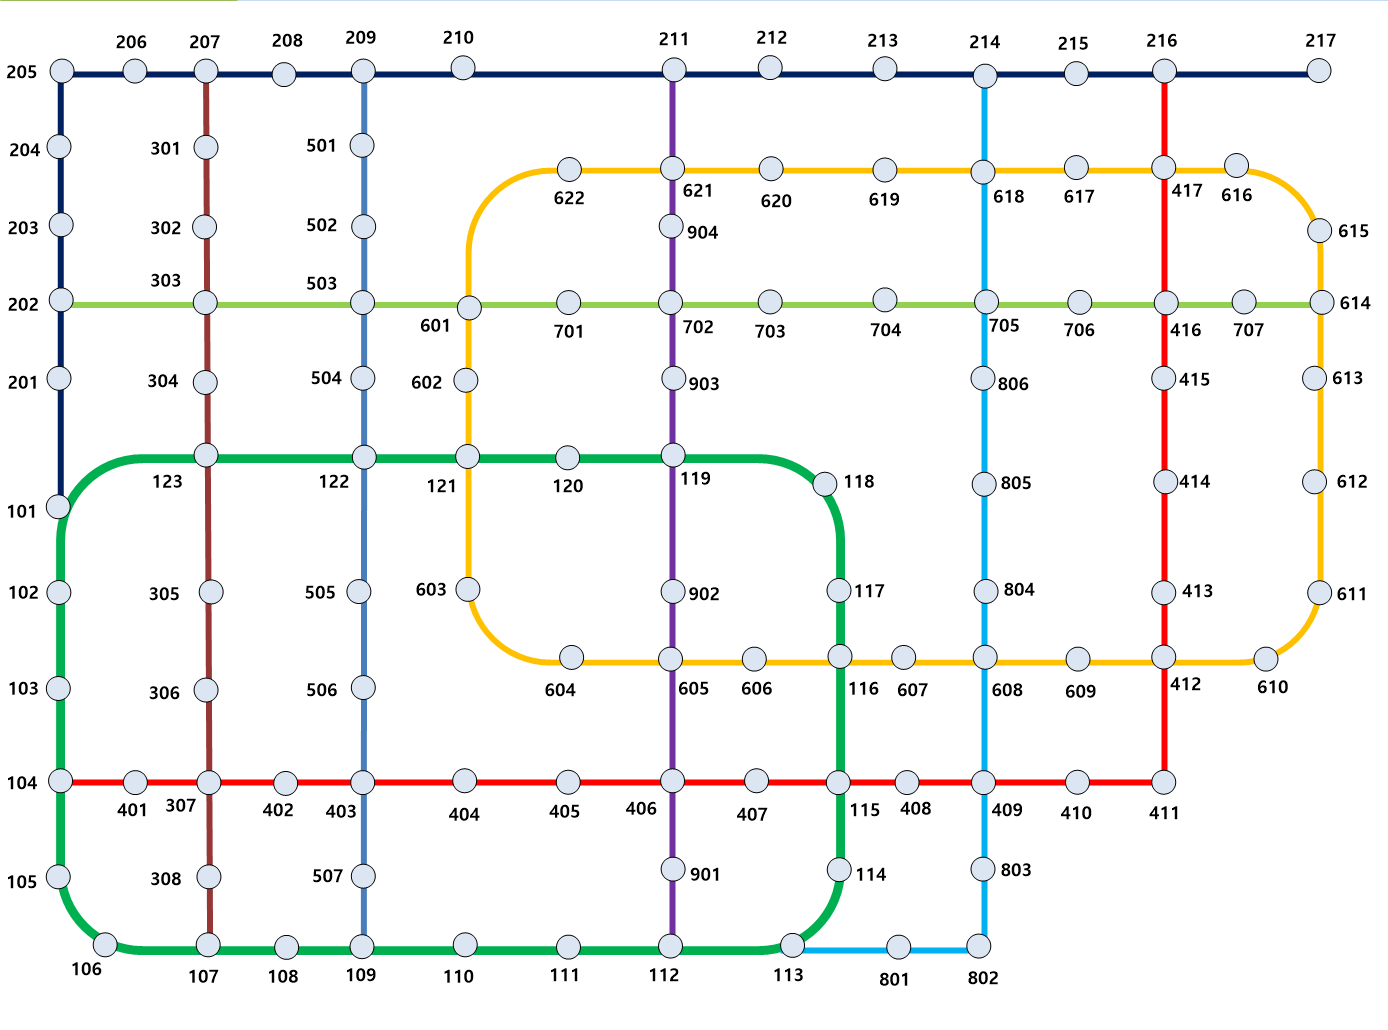
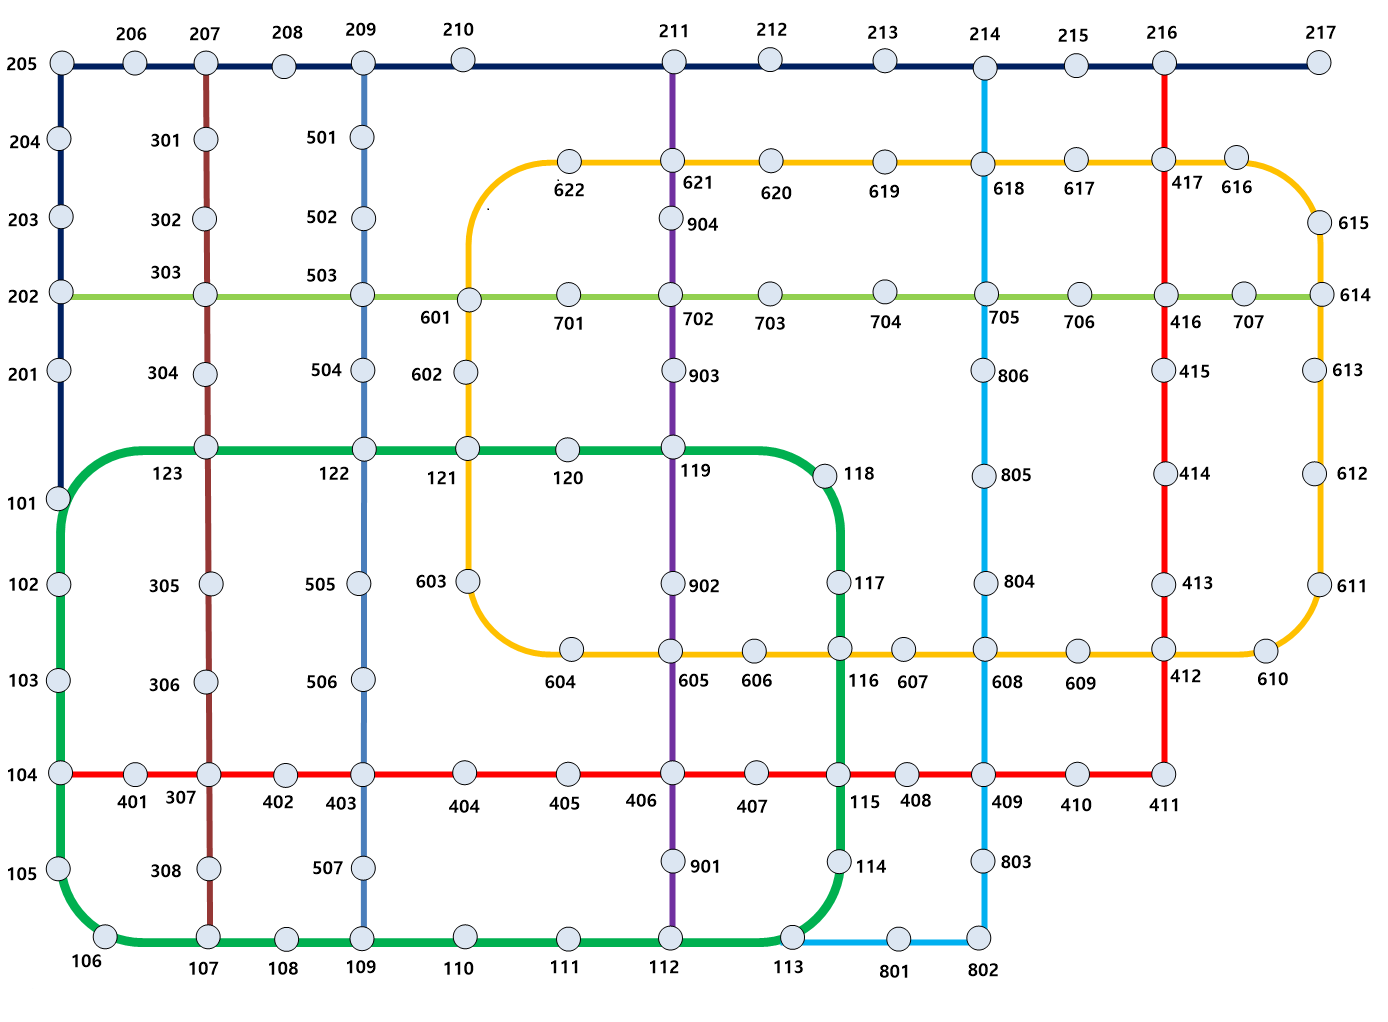
확대 구현 기모찌

diff --git a/lib/interface.dart b/lib/interface.dart
@@ -23,7 +23,8 @@ class InterFace extends StatefulWidget {
 //InterFaceState클래스 -> Button을 누르면 해당 UI로 스위치
 class _InterFaceState extends State<InterFace> {
   //디폴트 메뉴 search
-  String currentUI = "search";
+  String currentUI = "stationdata";
+  bool searchRouteMode = false;
   final GlobalKey<ScaffoldState> _scaffoldKey = GlobalKey<ScaffoldState>();
   void switchMenu(String selectedMenu) {
     setState(() {
@@ -47,77 +48,39 @@ class _InterFaceState extends State<InterFace> {
             top: 95,
             left: 6.5,
             right: 6.5,
-            child: GestureDetector(
-              child: ClipRRect(
-                borderRadius: BorderRadius.circular(10.0),
-                child: Image.asset(
-                  "assets/images/노선도.png",
-                  width: 500,
-                  height: 560,
-                  fit: BoxFit.cover,
+            child: Container(
+              decoration: BoxDecoration(
+                  borderRadius: BorderRadius.circular(20), color: Colors.white),
+              width: 500,
+              height: 560,
+              child: InteractiveViewer(
+                minScale: 1.0,
+                maxScale: 4.5,
+                child: Padding(
+                  padding: const EdgeInsets.only(
+                    left: 20.0,
+                    right: 20.0,
+                  ),
+                  child: ClipRRect(
+                    child: Image.asset("assets/images/노선도.png",
+                        width: 500, height: 560, fit: BoxFit.contain),
+                  ),
                 ),
               ),
             ),
           ),
-          Column(
+          const Column(
             children: [
-              Container(
-                decoration: BoxDecoration(
-                  color: Theme.of(context).primaryColor,
-                ),
-                width: double.infinity,
-                height: 90,
-                child: Padding(
-                  padding: const EdgeInsets.only(top: 15.0),
-                  child: Row(
-                    mainAxisAlignment: MainAxisAlignment.spaceEvenly,
-                    children: [
-                      Builder(builder: (BuildContext builderContext) {
-                        return GestureDetector(
-                          onTap: () {
-                            Scaffold.of(builderContext).openDrawer();
-                          },
-                          child: Container(
-                            decoration: BoxDecoration(
-                                color: Theme.of(context).primaryColor,
-                                borderRadius: BorderRadius.circular(10.0)),
-                            width: 40.0,
-                            height: 43.5,
-                            child: const Icon(Icons.menu),
-                          ),
-                        );
-                      }),
-                      const SizedBox(
-                        width: 300,
-                        child: TextField(
-                          decoration: InputDecoration(
-                            fillColor: Colors.white,
-                            filled: true,
-                            contentPadding: EdgeInsets.symmetric(
-                              vertical: 13,
-                              horizontal: 10,
-                            ),
-                            border: OutlineInputBorder(
-                              borderRadius: BorderRadius.all(
-                                Radius.circular(20),
-                              ),
-                            ),
-                            hintText: '역을 입력하세요',
-                          ),
-                        ),
-                      ),
-                    ],
-                  ),
-                ),
+              SearchBar(
+                isSearchMode: false,
               ),
-              //DataUI 컨테이너
             ],
           ),
           Positioned(
             bottom: 59,
             left: 0,
             right: 0,
-            child: DataUI(currentUI: currentUI),
+            child: DataUI(currentUI: currentUI), //DataUI 컨테이너
           ),
           Positioned(
             bottom: 0,
@@ -331,6 +294,135 @@ class _InterFaceState extends State<InterFace> {
   }
 }
 
+class SearchBar extends StatelessWidget {
+  final bool isSearchMode;
+  const SearchBar({super.key, this.isSearchMode = false});
+
+  @override
+  Widget build(BuildContext context) {
+    if (isSearchMode) {
+      return Container(
+        decoration: BoxDecoration(
+          color: Theme.of(context).primaryColor,
+        ),
+        width: double.infinity,
+        height: 90,
+        child: Padding(
+          padding: const EdgeInsets.only(top: 15.0),
+          child: Row(
+            mainAxisAlignment: MainAxisAlignment.spaceEvenly,
+            children: [
+              Builder(builder: (BuildContext builderContext) {
+                return GestureDetector(
+                  onTap: () {
+                    Scaffold.of(builderContext).openDrawer();
+                  },
+                  child: Container(
+                    decoration: BoxDecoration(
+                        color: Theme.of(context).primaryColor,
+                        borderRadius: BorderRadius.circular(10.0)),
+                    width: 40.0,
+                    height: 43.5,
+                    child: const Icon(Icons.swap_horiz),
+                  ),
+                );
+              }),
+              const SizedBox(
+                width: 150,
+                child: TextField(
+                  decoration: InputDecoration(
+                    fillColor: Colors.white,
+                    filled: true,
+                    contentPadding: EdgeInsets.symmetric(
+                      vertical: 13,
+                      horizontal: 10,
+                    ),
+                    border: OutlineInputBorder(
+                      borderRadius: BorderRadius.all(
+                        Radius.circular(10),
+                      ),
+                    ),
+                    hintText: '출발역',
+                  ),
+                ),
+              ),
+              const SizedBox(
+                width: 150,
+                child: TextField(
+                  decoration: InputDecoration(
+                    fillColor: Colors.white,
+                    filled: true,
+                    contentPadding: EdgeInsets.symmetric(
+                      vertical: 13,
+                      horizontal: 10,
+                    ),
+                    border: OutlineInputBorder(
+                      borderRadius: BorderRadius.all(
+                        Radius.circular(10),
+                      ),
+                    ),
+                    hintText: '도착역',
+                  ),
+                ),
+              ),
+            ],
+          ),
+        ),
+      );
+    } else {
+      return Container(
+        decoration: BoxDecoration(
+          color: Theme.of(context).primaryColor,
+        ),
+        width: double.infinity,
+        height: 90,
+        child: Padding(
+          padding: const EdgeInsets.only(top: 15.0),
+          child: Row(
+            mainAxisAlignment: MainAxisAlignment.spaceEvenly,
+            children: [
+              Builder(builder: (BuildContext builderContext) {
+                return GestureDetector(
+                  onTap: () {
+                    Scaffold.of(builderContext).openDrawer();
+                  },
+                  child: Container(
+                    decoration: BoxDecoration(
+                        color: Theme.of(context).primaryColor,
+                        borderRadius: BorderRadius.circular(10.0)),
+                    width: 40.0,
+                    height: 43.5,
+                    child: const Icon(Icons.menu),
+                  ),
+                );
+              }),
+              const SizedBox(
+                width: 300,
+                child: TextField(
+                  decoration: InputDecoration(
+                    fillColor: Colors.white,
+                    filled: true,
+                    contentPadding: EdgeInsets.symmetric(
+                      vertical: 13,
+                      horizontal: 10,
+                    ),
+                    border: OutlineInputBorder(
+                      borderRadius: BorderRadius.all(
+                        Radius.circular(10),
+                      ),
+                    ),
+                    hintText: '역을 입력하세요',
+                  ),
+                ),
+              ),
+            ],
+          ),
+        ),
+      );
+    }
+  }
+}
+
 //DataUI 클래스 -> 버튼을 누르면 해당 상태로 UI변경
 class DataUI extends StatefulWidget {
   final String currentUI;
@@ -350,9 +442,8 @@ class _DataUIState extends State<DataUI> {
     Widget contentWidget = buildContentWidget(widget.currentUI);
 
     return ConstrainedBox(
-      constraints: BoxConstraints(
-        maxHeight: MediaQuery.of(context).size.height * 0.825,
-      ),
+      constraints:
+          BoxConstraints(maxHeight: MediaQuery.of(context).size.height * 0.825),
       child: DraggableScrollableSheet(
         initialChildSize: 0.6,
         maxChildSize: 0.99,
@@ -372,7 +463,7 @@ class _DataUIState extends State<DataUI> {
     switch (currentUI) {
       case "home":
         return const HomeUI();
-      case "search":
+      case "stationdata":
         return const StationData();
       default:
         return const StationData();

diff --git a/lib/search_widgets/route_UI.dart b/lib/search_widgets/route_UI.dart
@@ -1,0 +1,28 @@
+import 'package:flutter/material.dart';
+
+class RouteSearch extends StatefulWidget {
+  const RouteSearch({super.key});
+
+  @override
+  State<RouteSearch> createState() => _RouteSearchState();
+}
+
+class _RouteSearchState extends State<RouteSearch> {
+  @override
+  Widget build(BuildContext context) {
+    return Scaffold(
+      backgroundColor: Colors.white,
+      body: Column(
+        children: [
+          Container(
+            decoration: BoxDecoration(
+              color: Theme.of(context).primaryColor,
+            ),
+            width: double.infinity,
+            height: 90,
+          )
+        ],
+      ),
+    );
+  }
+}

diff --git a/lib/main.dart b/lib/main.dart
@@ -2,10 +2,12 @@ import 'package:firebase_core/firebase_core.dart';
 import 'package:provider/provider.dart';
 import 'package:flutter/material.dart';
 import 'package:test1/interface.dart';
-//import 'package:test1/login_widgets/login_ui.dart';
+// import 'package:test1/interface.dart';
+// import 'package:test1/login_widgets/login_ui.dart';
 import 'firebase_options.dart';
 import 'login_widgets/auth_service.dart';
 import 'package:flutter/services.dart';
+import 'package:test1/search_widgets/route_UI.dart';
 
 void main() async {
   WidgetsFlutterBinding.ensureInitialized();
